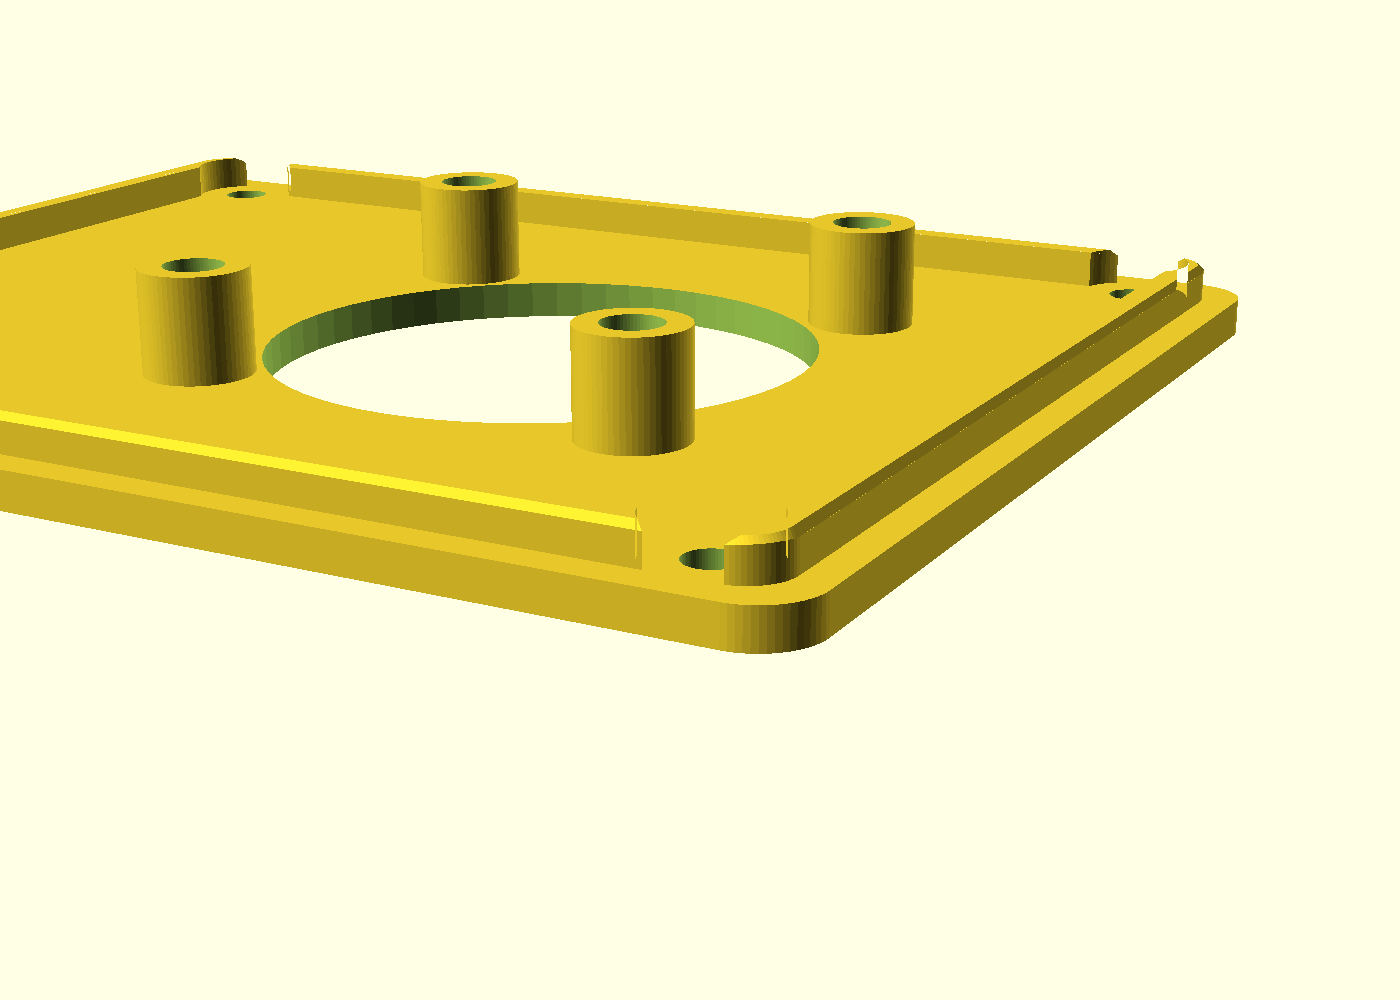
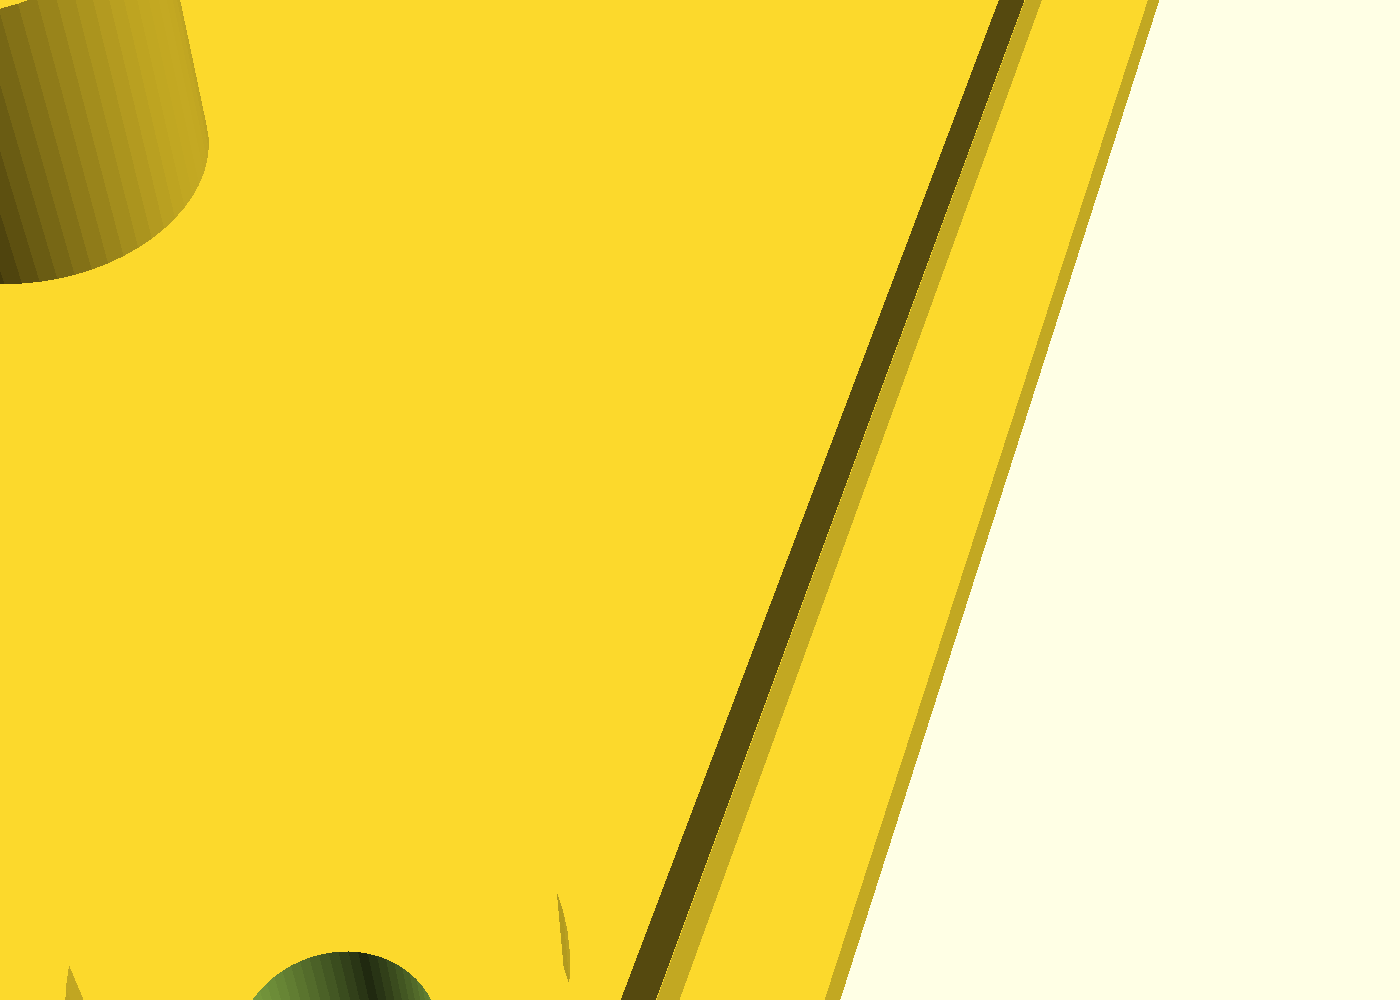
sbc-case B5: tighten lip-lead preview and doc follow-ups
- Reframe lip-lead camera (closer, edge-on on −X lip run) and regen PNG
- Fix CAMERAS.md/cameras.conf: fan insert bosses, not lid-screw posts
- README: coupon fit_clearance honest ceiling ~+0.10; lip-lead caption
- PM/NOTES: triage decision log, B10 queues, chronological reorder

sbc-case.scad untouched; gate 100/100 on base/lid/coupon.

diff --git a/designs/sbc-case/PM.md b/designs/sbc-case/PM.md
@@ -85,7 +85,7 @@ geometry, and the GPL/first-party story stays clean.
 | B6 | Printed-foot option (parameter) | Drik, round 2: the case walks on a one-handed cable pull; this round's fix is a README "add adhesive feet" line, a printed foot is the no-hardware option. **Round 7:** the adhesive feet are now billed on the README hardware line ("four carts, not five") — a glue-on dot isn't an N2 assembly vitamin, so B6's printed-foot parameter stays the durable choice the page can bill | low — parameter + render |
 | B8 | Exploded-view size bump (inserts/screws/washers too small to identify) | Drik, round 3, **up a nudge:** ASSEMBLY.md step 1 is the doc's highest-stakes instruction (insert-flush → lid-screw bite) yet the exploded view renders the very parts it points at too small to make out — text carries the warning, the image can't back it. Rides the next assembly.conf change; the size step may be generator-side. **Round 6:** premise disputed by its own originator — a fresh squint picks out the washer, long fan screw, short board screw and insert pins by shape; rank holds, resolves on the first stranger-assembly evidence (B10's build day), promote-with-story only on a real stumble | trivial — generator size step |
 | B9 | **[resolved, round 2c]** `ports.png` keeps its framing; `iso.png` is the open-edge evidence image (and post-B0 shows a real skirt, not a curtain) | Drik hunch, round 2 | — (decided) |
-| B10 | SD-swap ergonomics field-test on the first real print — card in / out with the lid on, logged as the first `## Field test log` entry in NOTES.md | Drik hunch, **re-scoped round 2c against the restored rim**: the micro-SD socket hangs ~1.3 mm below the board, so the card sweeps z ≈ 5.85–6.85 against a rim now solid to 6.5 and may scrape ~0.3–0.4 mm. A hunch drives a measurement, not a change; if the print confirms it, `skirt_margin` 0.5 → ~1.6 or a local −X scallop is next round's. **Drik volunteers to run the first one** (card + ribbon socket, round 3); it's the DoD's one open row and gates the flattened page claim. **Widened round 4** (Drik): seat the official USB-C PSU, both micro-HDMI and the jack alongside the card — the RPI4 vitamin draws those connectors top-side, so no render witnesses overmold-vs-rim, and a headless box that won't take power is DOA at minute zero. **Widened again round 7** (Drik): also log where the fan leads were landed (Pi header vs 5 V) and how loud the box is at 1 a.m. — answering the audibility hunch with evidence in the same field-test entry. **Round 9** (Drik/Vera): also resolve the tether's lived question — does the fan lead reach the header with slack, or must it be unplugged to lift the lid? — and the fan's **wire count** (2-wire on/off vs 4-wire PWM decides whether the step-7 "quieter at night" or "runs only when warm" is the honest wording). **Now the top open row: after the round-9 batch the page is retired behind it — page-only findings queue behind the first print by default**. **Round 12/13** (Jane/Drik): also the **lid-seating** feel (press over the posts, not the 55 mm GPIO-notch span — mid-notch flex may whiten a PETG lip edge over ~50 lid-offs) and the coupling of the "2 a.m. reflash needs no tools" tagline — the field-test entry and that tagline are revisited in the **same commit**, since the day a scrape is logged is the day the tagline needs its own hedge. **B5 (Drik R5):** log whether the register seat *starts* straight on the B5 lead-in | trivial — one field test on first print |
+| B10 | SD-swap ergonomics field-test on the first real print — card in / out with the lid on, logged as the first `## Field test log` entry in NOTES.md | Drik hunch, **re-scoped round 2c against the restored rim**: the micro-SD socket hangs ~1.3 mm below the board, so the card sweeps z ≈ 5.85–6.85 against a rim now solid to 6.5 and may scrape ~0.3–0.4 mm. A hunch drives a measurement, not a change; if the print confirms it, `skirt_margin` 0.5 → ~1.6 or a local −X scallop is next round's. **Drik volunteers to run the first one** (card + ribbon socket, round 3); it's the DoD's one open row and gates the flattened page claim. **Widened round 4** (Drik): seat the official USB-C PSU, both micro-HDMI and the jack alongside the card — the RPI4 vitamin draws those connectors top-side, so no render witnesses overmold-vs-rim, and a headless box that won't take power is DOA at minute zero. **Widened again round 7** (Drik): also log where the fan leads were landed (Pi header vs 5 V) and how loud the box is at 1 a.m. — answering the audibility hunch with evidence in the same field-test entry. **Round 9** (Drik/Vera): also resolve the tether's lived question — does the fan lead reach the header with slack, or must it be unplugged to lift the lid? — and the fan's **wire count** (2-wire on/off vs 4-wire PWM decides whether the step-7 "quieter at night" or "runs only when warm" is the honest wording). **Now the top open row: after the round-9 batch the page is retired behind it — page-only findings queue behind the first print by default**. **Round 12/13** (Jane/Drik): also the **lid-seating** feel (press over the posts, not the 55 mm GPIO-notch span — mid-notch flex may whiten a PETG lip edge over ~50 lid-offs) and the coupling of the "2 a.m. reflash needs no tools" tagline — the field-test entry and that tagline are revisited in the **same commit**, since the day a scrape is logged is the day the tagline needs its own hedge. **B5 (Drik R5/R6):** log whether the register seat *starts* straight on the B5 lead-in; **stamp the field-test entry "with B5 lead-in @ 0.45"** so the feel data is attributable. **B5 (Drik R6 hunch):** on ASA, one eye-and-fingertip line on whether the chamfer's outer edge whitens or wears over repeated seatings | trivial — one field test on first print |
 
 ## Open decisions
 
@@ -117,6 +117,7 @@ their stated assumptions (see the decision log).
 | 2026-08-24 | Round 10 (PR #397 pm-triage, head `99fdc73` = CI regen commit-back on push `8ebc344`): **both reviewers pass again** (Jane fresh at `8ebc344`, Drik re-run). **One act-now — the `notch` caption honesty fix**: the alt text "header reaching through" (README) + the matching `previews/CAMERAS.md` phrase claimed the 2×20 pins reach through the notch, but the pins top at ~16.9 mm while `gpio_notch_bottom = 17.5` (`sbc-case.scad:77`), so they sit ~0.6 mm below the notch lip, behind solid wall — the notch clears a jumper/Dupont housing (~19.4 mm, over the 17.5 lip) with the lid on, not the pins. Corroborated: Drik's own §6 misread the exhibit ("pins visibly reach through") — the caption misleading a careful reviewer | The **page-honesty exception** the round-9 retirement rule reserves ("unless they touch page honesty"), filed as one by Jane — same class as round 3's false "hidden once the lid is on" clause. Camera stays **frozen** (don't reframe); `sbc-case.scad` frozen (geometry sound, only the words were wrong). Queued: shouldered-insert-tip → B4; occupied-notch guard → B7; 2 a.m. by-feel framing → B10; populated-charcoal is intentional (keep-guard). ASSEMBLY.md regen-lag resolved at head. Vera did not block a merge |
 | 2026-08-24 | Round 11 (PR #397 pm-triage, head `a220364`): **both reviewers pass** — Jane fresh at `a220364`, Drik at `99fdc73` (one text-commit behind; currency is reviewer-signoff's). **One act-now — a one-word honesty fix**: the "Living with it" SD-swap bullet cited "(the field test in NOTES)" as the verification, but NOTES has no `## Field test log` yet (that entry *is* B10, pending) — a stranger following the parenthetical finds an engineering log, not a test → "the **planned** field test in NOTES" (README). The reserved page-honesty exception again (round-9 retirement rule), same class as round 10's caption / round 3's "hidden once the lid is on" | `sbc-case.scad` frozen (geometry unchanged since 2c). Keep-guard: `ports.png` and `top.png` stay committed but **off-page**, both intentional (`ports` = B9's reserved evidence image — a connectors-clear-the-rim claim takes a new `ports-rim` entry, never a reframe; `top` = carried by the contact-sheet's own top view). Drik's "header reaches through" read (his §, reviewed at `99fdc73` before the caption fix) is the **third** such misread — corrected by evidence (pins ~0.6 mm below the notch lip); the jumper-exit promise it rode is true. Second consecutive both-pass round; the page is retired to B10, and this one word is the last thing the page owed before the print. Vera did not block a merge |
 | 2026-08-24 | Round 12 (PR #397 pm-triage, head `6dcebba`): **both reviewers pass, fresh at the same head** (Drik round 11, Jane round 12 formal **APPROVE**; both `fuse=none`) — the PR's **first zero-act-now round since round 8**, and this time it holds: the round-9 retirement rule blocks any further page act-now (only B10, a physical print, remains) | `sbc-case.scad` frozen. Two queue-tier filings: Jane's **lid-seating** note (the lid seats soft over the 55 mm GPIO-notch span — press over the posts, not the notch; mid-notch flex could whiten a PETG lip edge over ~50 lid-offs) → **B10**; Drik's exploded-view insert-vs-screw legibility (intentional, the BOM cross-read is the answer) → **B8** keep-guard. `iso.png` byte-checked valid at head (Jane's reader refusal was tool-side). Vera did not block a merge |
+| 2026-08-24 | Round 13 (PR #397 pm-triage, head `6dcebba`): **both reviewers pass again** (Drik round 13, Jane fresh full pass). **One act-now — the `product-populated` caption straggler**, the page-honesty exception's **third** invocation: the italic caption (README) still read "gold header pins **through the wall**", the round-3 wording that outlived round 10's fix of the same false claim in the notch alt-text + CAMERAS.md — the page contradicted its own corrected exhibit one screen apart, and Drik's image tool made the same misread unprompted → "gold header pins **seated just below the notch lip**" | `sbc-case.scad` frozen (geometry unchanged since 2c); zero preview bytes. **Bundled with the carried round-12/13 bookkeeping in one push** (Vera's economy: sign-offs reset once, not twice). Queued: the "2 a.m. reflash needs no tools" tagline coupled to **B10** (revisit it in the same commit B10 logs its field test); Jane's **B11** print-pose constraint — the guard must be a **co-planar grille in the lid plate**, never a bar across the Ø37 aperture (unprintable both ways); **B4** gains that the lid fan-boss bores have their own 1.2 mm web floor (natural melt-in stop — the no-shoulder risk is the base posts only). Vera did not block a merge |
 | 2026-10-05 | **B5 — register-lip lead-in chamfer** (draft PR): `lip_lead_chamfer = 0.45` mm, 45° **outer-face-only** flare on the lip's **cavity tip** (assembled z = `base_top_z − lip_depth`; `outer_inset` on the outer perimeter only so post notches stay fixed — Drik R1). Feel-only seating aid — `ci.fitchecks` unchanged at full seat | Jane, PM B5; N4 (support-free flare, not a mid-air bridge) and N5 (lip wall thickness unchanged below the chamfer band) |
 | 2026-10-06 | **B5 — coupon crop (Drik R2–R3):** lid crop +X face at x ≈ −42.85 (−`lip_xi` + 0.15 mm outboard), +Y from `lip_yi` with pad tied to `fit_clearance` vs `fit_clearance_nominal` (100/100 at default and ±0.05; +0.10 coupon may read 92 — crop artifact, full lid 100); replaces fixed literal crop sizes. **R5:** keep `fit_clearance = 0.25` literal in Customizer; `fit_clearance_nominal` under `[Hidden]` and must match that default or the crop pad silently zeroes | coupon-only; base/lid part geometry unchanged |
-| 2026-08-24 | Round 13 (PR #397 pm-triage, head `6dcebba`): **both reviewers pass again** (Drik round 13, Jane fresh full pass). **One act-now — the `product-populated` caption straggler**, the page-honesty exception's **third** invocation: the italic caption (README) still read "gold header pins **through the wall**", the round-3 wording that outlived round 10's fix of the same false claim in the notch alt-text + CAMERAS.md — the page contradicted its own corrected exhibit one screen apart, and Drik's image tool made the same misread unprompted → "gold header pins **seated just below the notch lip**" | `sbc-case.scad` frozen (geometry unchanged since 2c); zero preview bytes. **Bundled with the carried round-12/13 bookkeeping in one push** (Vera's economy: sign-offs reset once, not twice). Queued: the "2 a.m. reflash needs no tools" tagline coupled to **B10** (revisit it in the same commit B10 logs its field test); Jane's **B11** print-pose constraint — the guard must be a **co-planar grille in the lid plate**, never a bar across the Ø37 aperture (unprintable both ways); **B4** gains that the lid fan-boss bores have their own 1.2 mm web floor (natural melt-in stop — the no-shoulder risk is the base posts only). Vera did not block a merge |
+| 2026-10-10 | **B5 draft PR — docs round (PM triage `23adba3`, Jane 15:50):** three PM act-nows + Jane caption — tighten `lip-lead` camera in its **first review round** (round-2b `notch` precedent: reframe before freeze, not a second row); CAMERAS.md/cameras.conf **fan insert boss** not lid-screw post; README coupon `fit_clearance` honest ceiling ~**+0.10** (decision 27); `lip-lead` italic caption. B10 queues: stamp field-test entry **"with B5 lead-in @ 0.45"**; ASA chamfer outer-edge wear (one look). `sbc-case.scad` untouched | Drik R6 + Jane pass at `23adba3`; base/lid STLs byte-identical |

diff --git a/designs/sbc-case/NOTES.md b/designs/sbc-case/NOTES.md
@@ -351,6 +351,19 @@ NopSCADlib vitamins (the brief's named source), read at build time:
     physical print) remains. Two queue-tier filings: Jane's lid-seating feel →
     B10; Drik's exploded-view legibility → B8. `iso.png` byte-checked valid (a
     reviewer reader refusal, not a corrupt file). Freeze held rounds 3–12.
+26. **Round 13 — the last caption straggler (PR #397).** One act-now, the
+    page-honesty exception's third use: the `product-populated` italic caption
+    (README) still said "gold header pins through the wall" — the round-3 wording
+    that outlived round 10's fix of the identical false claim in the notch
+    alt-text and CAMERAS.md, so the page contradicted its own corrected exhibit a
+    screen apart (Drik's image tool made the same misread unprompted). Fixed to
+    "seated just below the notch lip", consistent with CAMERAS.md's "pin tops fall
+    ~0.6 mm below the notch lip … the pins stay behind the wall". Bundled with the
+    carried round-12/13 charter bookkeeping in one push (Vera's economy: reset the
+    sign-offs once). Queued to B10: the "2 a.m. reflash needs no tools" tagline,
+    coupled to the field-test entry. Queued to B11: the finger guard must be a
+    co-planar grille in the lid plate, never a bar across the aperture
+    (unprintable both ways). Freeze held rounds 3–13, page-only since 2c.
 27. **B5 — register-lip lead-in chamfer (draft PR).** Jane, round 2 / PM B5:
     the 2.5 mm register lip was a straight vertical outer knife-edge. Seating
     the lid slightly crooked could catch on the cavity rim. Added
@@ -383,20 +396,11 @@ NopSCADlib vitamins (the brief's named source), read at build time:
     part stays 100/100. The coupon rehearses −X wall register, the −X lip face,
     the lower +Y lip band and lead-in on the straight −X seat. The outer
     −X,+Y corner arc and the post-notch arc above that band are only on the full
-    lid. No fin; base/lid part STLs unchanged.
-26. **Round 13 — the last caption straggler (PR #397).** One act-now, the
-    page-honesty exception's third use: the `product-populated` italic caption
-    (README) still said "gold header pins through the wall" — the round-3 wording
-    that outlived round 10's fix of the identical false claim in the notch
-    alt-text and CAMERAS.md, so the page contradicted its own corrected exhibit a
-    screen apart (Drik's image tool made the same misread unprompted). Fixed to
-    "seated just below the notch lip", consistent with CAMERAS.md's "pin tops fall
-    ~0.6 mm below the notch lip … the pins stay behind the wall". Bundled with the
-    carried round-12/13 charter bookkeeping in one push (Vera's economy: reset the
-    sign-offs once). Queued to B10: the "2 a.m. reflash needs no tools" tagline,
-    coupled to the field-test entry. Queued to B11: the finger guard must be a
-    co-planar grille in the lid plate, never a bar across the aperture
-    (unprintable both ways). Freeze held rounds 3–13, page-only since 2c.
+    lid. No fin; base/lid part STLs unchanged. **Docs round (2026-10-10, PM
+    triage `23adba3`):** `lip-lead` camera tightened in its first review round
+    (round-2b `notch` precedent — reframe before freeze); README states the
+    coupon stays honest to about +0.10 on `fit_clearance`; CAMERAS.md names fan
+    insert bosses. `sbc-case.scad` untouched.
 
 ## Print settings
 

diff --git a/designs/sbc-case/previews/CAMERAS.md b/designs/sbc-case/previews/CAMERAS.md
@@ -7,4 +7,4 @@
 | `ports` | low angle on the +X edge: USB-A / Ethernet cable clearance through the open skirt, the webbed vent row |
 | `board` | base tray alone from the −Y/above: the four standoffs generated from `pcb_screw_positions(RPI4)`, the through-bored lid-screw posts, skirt profile |
 | `notch` | bare tray with the Pi seated, three-quarter from +Y: the GPIO access notch cut down from the +Y wall top edge, sitting just above the seated 2×20 header — its pin tops fall ~0.6 mm below the notch lip, so a jumper/Dupont housing exits through it with the lid on (feature #4) while the pins stay behind the wall; the webbed vent row below |
-| `lip-lead` | `lid` at print pose (outer face down), close-up on the −X,+Y register lip: the 45° B5 lead-in chamfer on the cavity-entering edge, with a lid-screw post boss in frame for scale |
+| `lip-lead` | `lid` at print pose (outer face down), close-up on the −X register lip run: the 45° B5 lead-in chamfer on the cavity-entering edge, with a fan insert boss in frame for scale |

diff --git a/designs/sbc-case/README.md b/designs/sbc-case/README.md
@@ -110,11 +110,14 @@ the fan on blowing into the case.
 
 If a fit is off, tune it on the coupon (NOTES.md, "Print this first") and
 reprint only the affected part — the coupon is cropped from the same geometry,
-so what you feel there is what the full parts do. A printcheck thin-wall warning
-on the coupon after a large `fit_clearance` bump can be a crop artifact; print and
-check the full `lid` if in doubt (NOTES decision 27).
+so what you feel there is what the full parts do. A printcheck thin-wall warning on the coupon after a `fit_clearance` bump can be a
+crop artifact — the coupon stays honest to about +0.10; past that, tune on the full
+`lid`; print and check the full `lid` if in doubt (NOTES decision 27).
 
 ![Lid register lip lead-in chamfer at print pose](previews/lip-lead.png)
+
+*Lid at print pose (outer face down): 45° B5 lead-in on the cavity-entering edge
+of the −X register lip — 0.45 mm band; a fan insert boss in frame for scale.*
 
 ## Living with it
 
